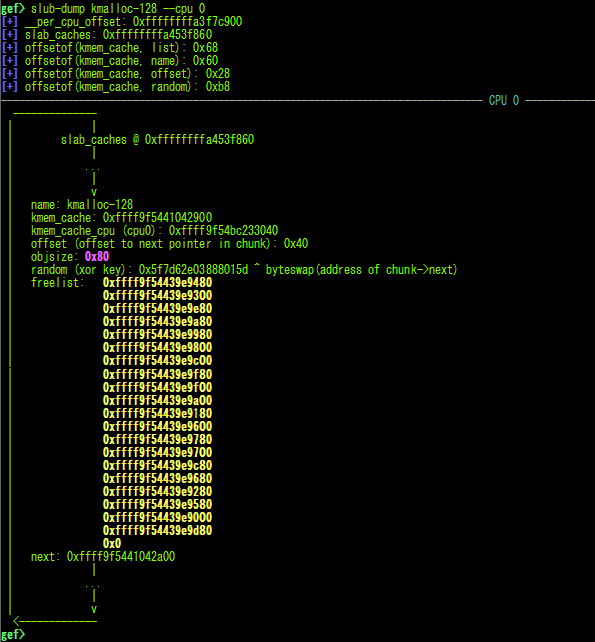
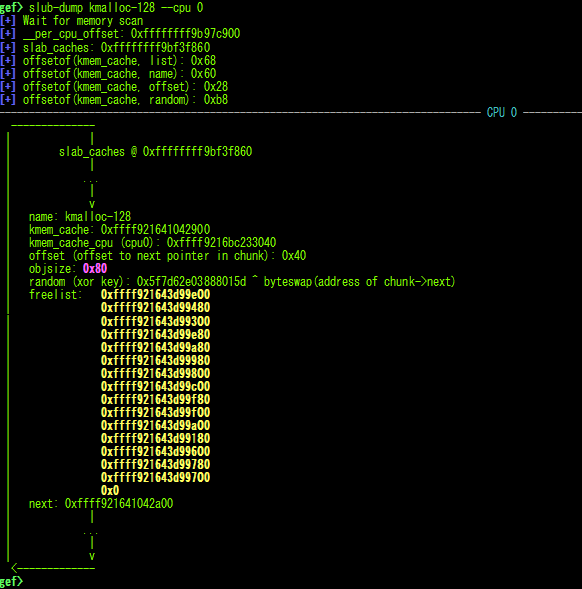
fix various

Changed region(s): [[0.0, 0.0, 1.0, 1.0]]

diff --git a/gef.py b/gef.py
@@ -1237,7 +1237,7 @@ class GlibcArena:
 
     def bin_list(self, index):
         fw, bk = self.bin(index)
-        if bk==0x00 and fw==0x00:
+        if bk == 0x00 and fw == 0x00:
             return set() # invalid
         head = GlibcChunk(bk, from_base=True).fwd
         if fw == head:
@@ -7301,8 +7301,8 @@ class UnicornEmulateCommand(GenericCommand):
             content += "        enable_thumb = emu.reg_read(registers['$'+insn.op_str]) & 1\n"
             content += "    return\n"
 
-            # hack: unicorn handles if thumb or not, but capstone can't. we have to handle it manually for capstone.
-            # since CS_MODE_ARM is 0x0, it can be ignore. we represent status of thumb: CS_MODE_THUMB * (0 or 1).
+            # hack: unicorn can handle if thumb or not, but capstone can't. we have to handle it manually for capstone.
+            # since CS_MODE_ARM is 0x0, it can be ignored. we represent status of thumb: CS_MODE_THUMB * (0 or 1).
             endian = cs_mode.split(" + ")[-1]
             cs_mode = "capstone.CS_MODE_THUMB * enable_thumb + " + endian
 
@@ -12633,7 +12633,7 @@ class PatchCommand(GenericCommand):
     _syntax_ += "{:s} [-h] string [--phys] LOCATION \"double-escaped string\" [LENGTH]\n".format(_cmdline_)
     _syntax_ += "{:s} [-h] pattern [--phys] LOCATION LENGTH\n".format(_cmdline_)
     _syntax_ += "{:s} [-h] history\n".format(_cmdline_)
-    _syntax_ += "{:s} [-h] revert [HISTORY]\n".format(_cmdline_)
+    _syntax_ += "{:s} [-h] revert [HISTORY]".format(_cmdline_)
     _category_ = "Show/Modify Memory"
     SUPPORTED_SIZES = {
         "qword": (8, "Q"),
@@ -19913,6 +19913,8 @@ class KernelCmdlineCommand(GenericCommand):
     def do_invoke(self, argv):
         self.dont_repeat()
 
+        info("Wait for memory scan")
+
         ret = self.kernel_cmdline()
         if ret is None:
             err("Parse failed")
@@ -19943,6 +19945,7 @@ class KernelTaskCommand(GenericCommand):
         if init_task is None:
             err("Not found symbol")
             return None
+        info("init_task: {:#x}".format(init_task))
 
         # search init_task->tasks
         for i in range(0x100):
@@ -19970,14 +19973,24 @@ class KernelTaskCommand(GenericCommand):
                 value_list.append(pos)
             if found:
                 info("offsetof(task_struct, tasks): {:#x}".format(offset_tasks))
+                info("Number of tasks: {:d}".format(len(value_list)))
                 return [x - offset_tasks for x in value_list]
         err("Not found init_task->tasks")
         return None
 
     def get_offset_comm(self, task_addrs):
-        for i in range(0x100):
+        for i in range(0x200):
             offset_comm = i * current_arch.ptrsize
-            if all([is_ascii_string(task + offset_comm) for task in task_addrs]):
+            valid = True
+            for task in task_addrs:
+                if not is_ascii_string(task + offset_comm):
+                    valid = False
+                    break
+                s = read_cstring_from_memory(task + offset_comm)
+                if len(s) < 2:
+                    valid = False
+                    break
+            if valid:
                 info("offsetof(task_struct, comm): {:#x}".format(offset_comm))
                 return offset_comm
         err("Not found task->comm[TASK_CMM_LEN]")
@@ -20050,6 +20063,8 @@ class KernelTaskCommand(GenericCommand):
     @only_if_qemu_system
     def do_invoke(self, argv):
         self.dont_repeat()
+
+        info("Wait for memory scan")
 
         task_addrs = self.get_task_list()
         if task_addrs is None:
@@ -22049,9 +22064,9 @@ class SlubDumpCommand(GenericCommand):
         return
 
     def dump_names(self):
-        gef_print(Color.colorify("Object Size: Name", "bold yellow"))
-        for c in self.parsed_caches[1:]:
-            gef_print("{:5d} bytes: {:s}".format(c['objsize'], c['name']))
+        gef_print(Color.colorify("Object Size              : Name", get_gef_setting("theme.table_heading")))
+        for c in sorted(self.parsed_caches[1:], key=lambda x:x['name']):
+            gef_print("{:5d} byte ({:#6x} bytes): {:s}".format(c['objsize'], c['objsize'], c['name']))
         return
 
     def slabwalk(self, targets):
@@ -22105,6 +22120,8 @@ class SlubDumpCommand(GenericCommand):
         if "--list" in argv:
             self.listup = True
             argv.remove("--list")
+
+        info("Wait for memory scan")
 
         self.slabwalk(argv)
         return
@@ -32847,7 +32864,7 @@ class BincompareCommand(GenericCommand):
             err("Especified file '{:s}' not exists".format(filename))
             return
 
-        f=open(filename, "rb")
+        f = open(filename, "rb")
         file_data = f.read()
         f.close()
 
@@ -32868,7 +32885,7 @@ class BincompareCommand(GenericCommand):
         cnt = 0
         corrupted = -1
         for eachByte in file_data:
-            hexchar="{:02x}".format(eachByte)
+            hexchar = "{:02x}".format(eachByte)
             if cnt > len(memory_data):
                 result_table.append((hexchar, "--"))
                 corrupted = -1

diff --git a/README.md b/README.md
@@ -197,7 +197,6 @@ All of these features are experimental. Tested on Ubuntu 18.04 / 20.04 / 22.04 /
 * `unicorn-emulate`: is improved.
     * It reads and writes correctly to the address pointed to by `$fs`/`$gs`.
     * It supports a new mode to stop after executing N instructions (`-g`).
-    * It supports execution under qemu-usermode partially (It is unable to emulate TLS if TLS is not initialized).
         * ![](https://raw.githubusercontent.com/bata24/gef/dev/images/unicorn-emulate.png)
 * `ropper`: is improved.
     * It does not reset autocomplete settings after calling imported ropper.
